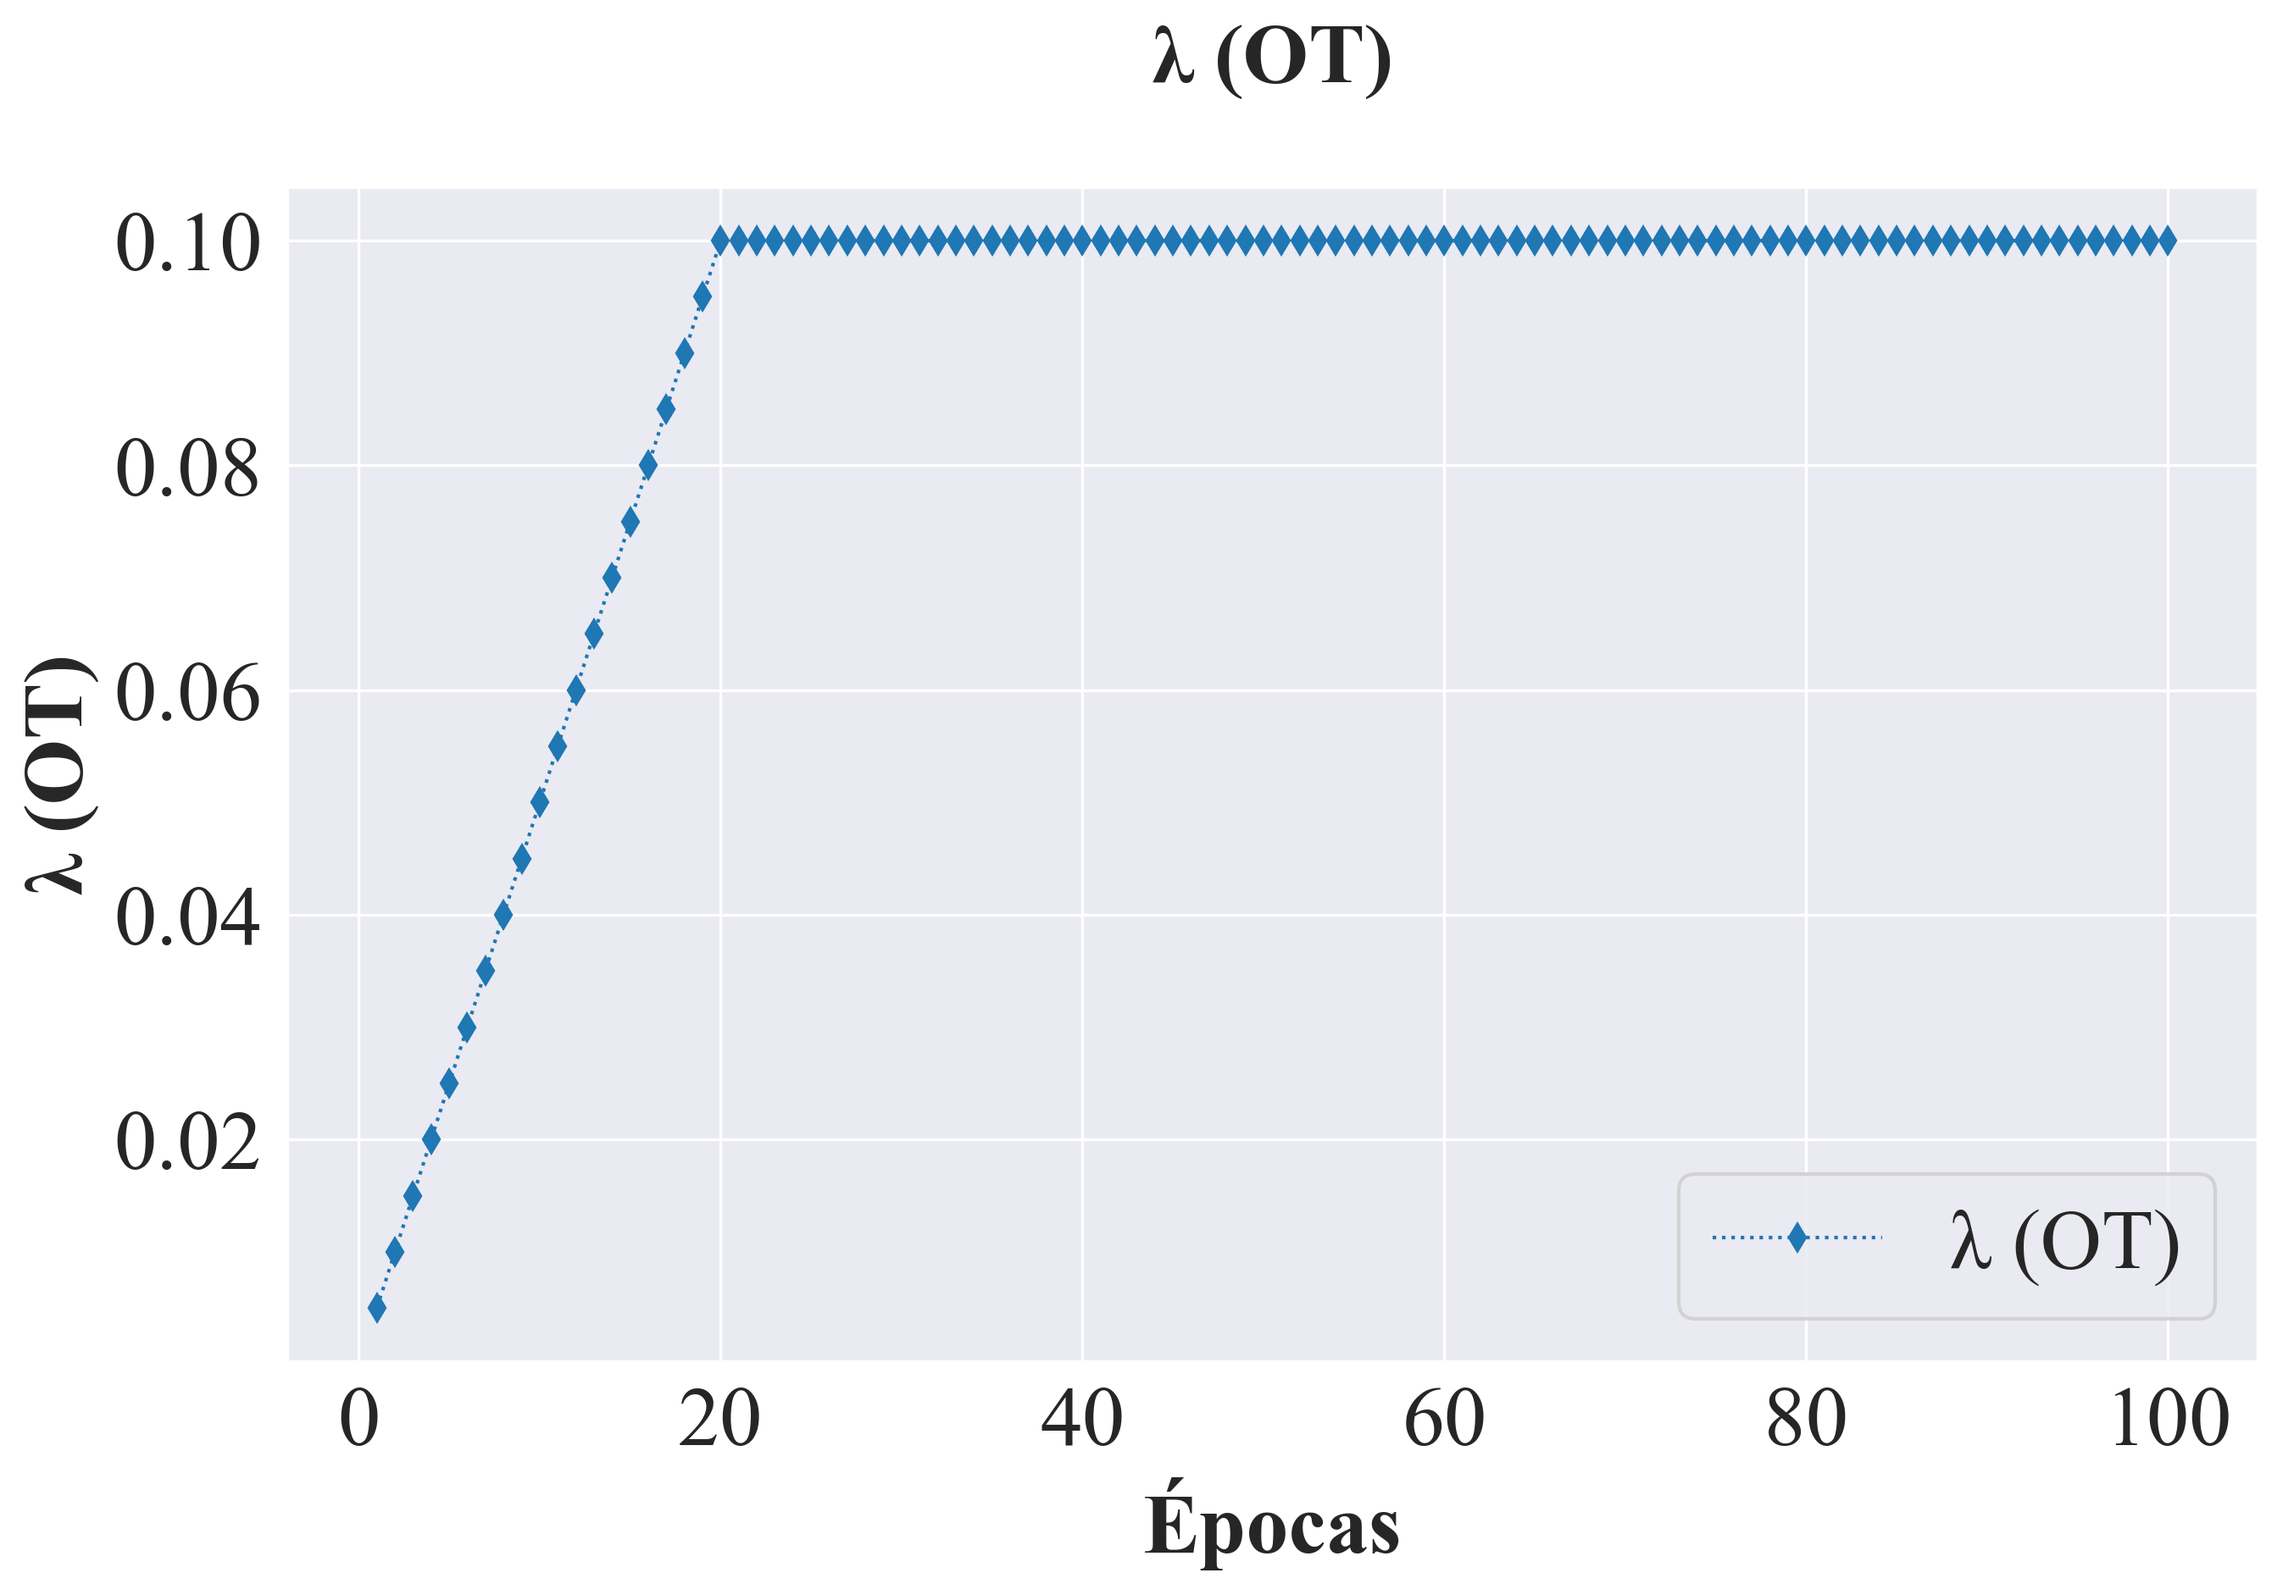
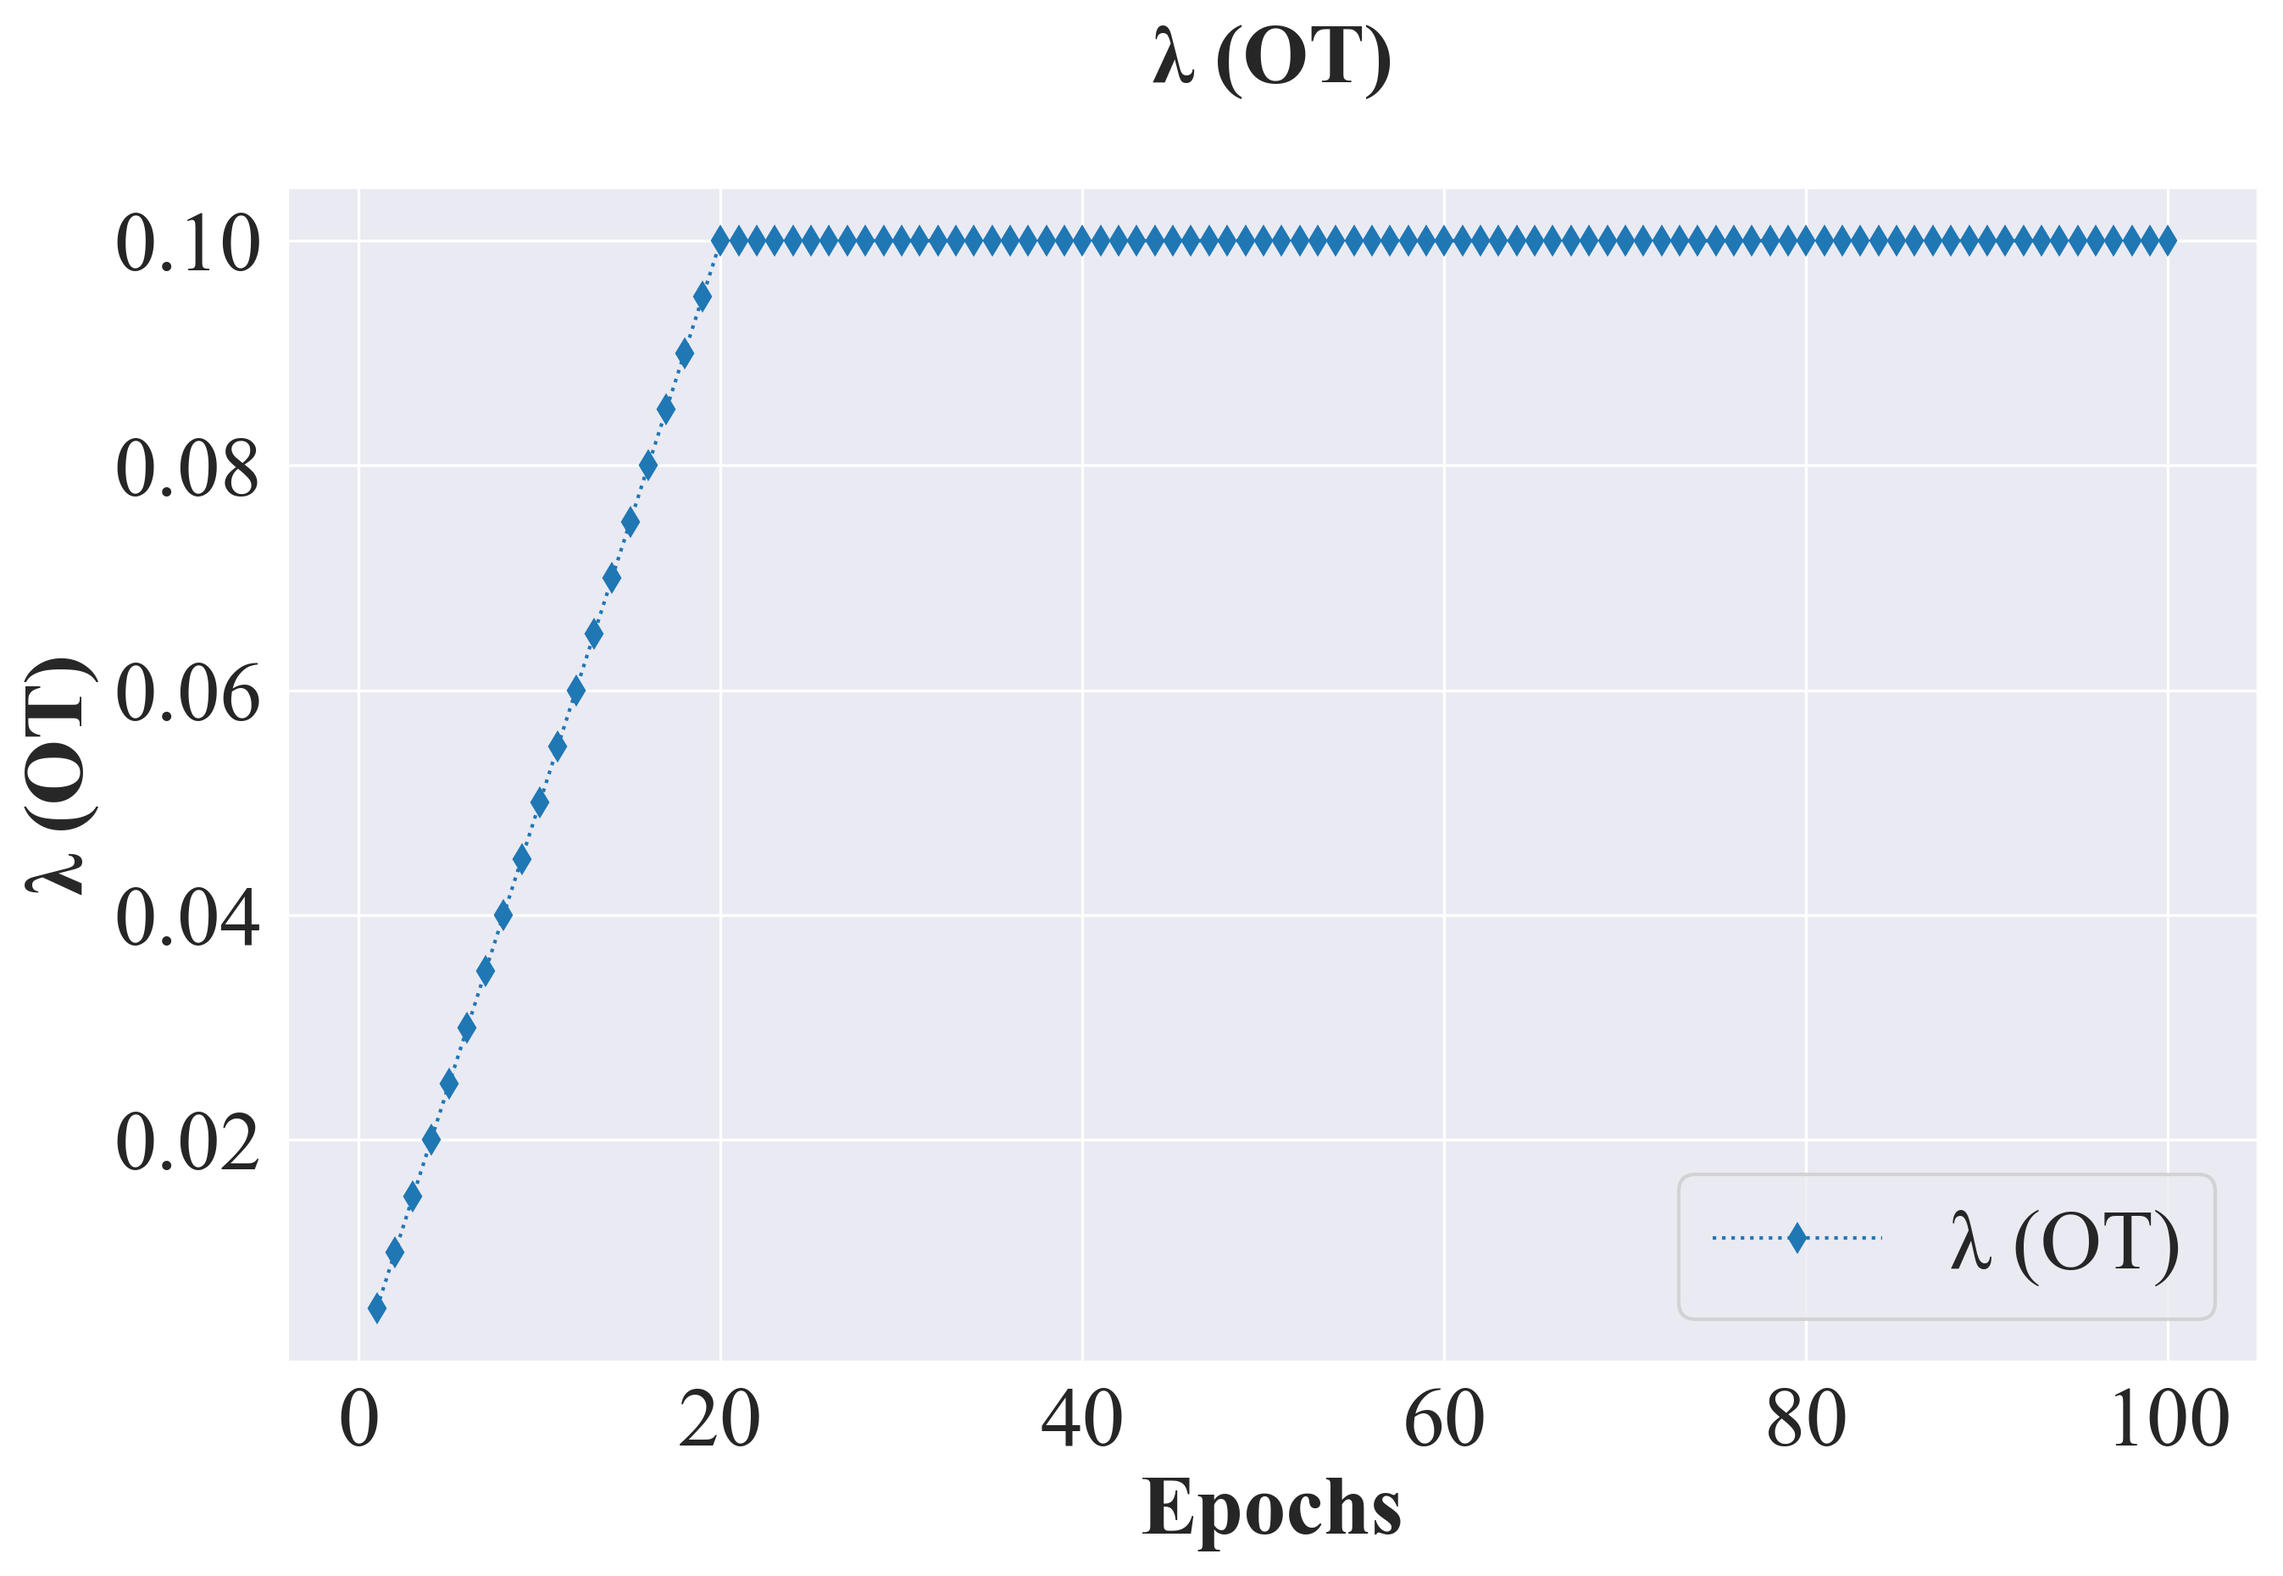
metrics

diff --git a/domain_adaptation_metrics.py b/domain_adaptation_metrics.py
@@ -105,6 +105,6 @@ def plot_divergence_metrics(
 if __name__ == "__main__":
     plot_divergence_metrics(
         "trainig_metrics.csv",
-        language="es",
+        language="en",
         save_dir="plots",
     )

diff --git a/plot_metrics.py b/plot_metrics.py
@@ -127,6 +127,6 @@ def plot_regression_metrics(
 if __name__ == "__main__":
     plot_regression_metrics(
         "trainig_metrics.csv",
-        language="es",
+        language="en",
         save_dir="plots",
     )

diff --git a/domain_adaptation_plots.py b/domain_adaptation_plots.py
@@ -83,6 +83,6 @@ def plot_train_metrics_one(
 if __name__ == "__main__":
     plot_train_metrics_one(
         "trainig_metrics.csv",
-        language="es",
+        language="en",
         save_dir="plots",
     )
